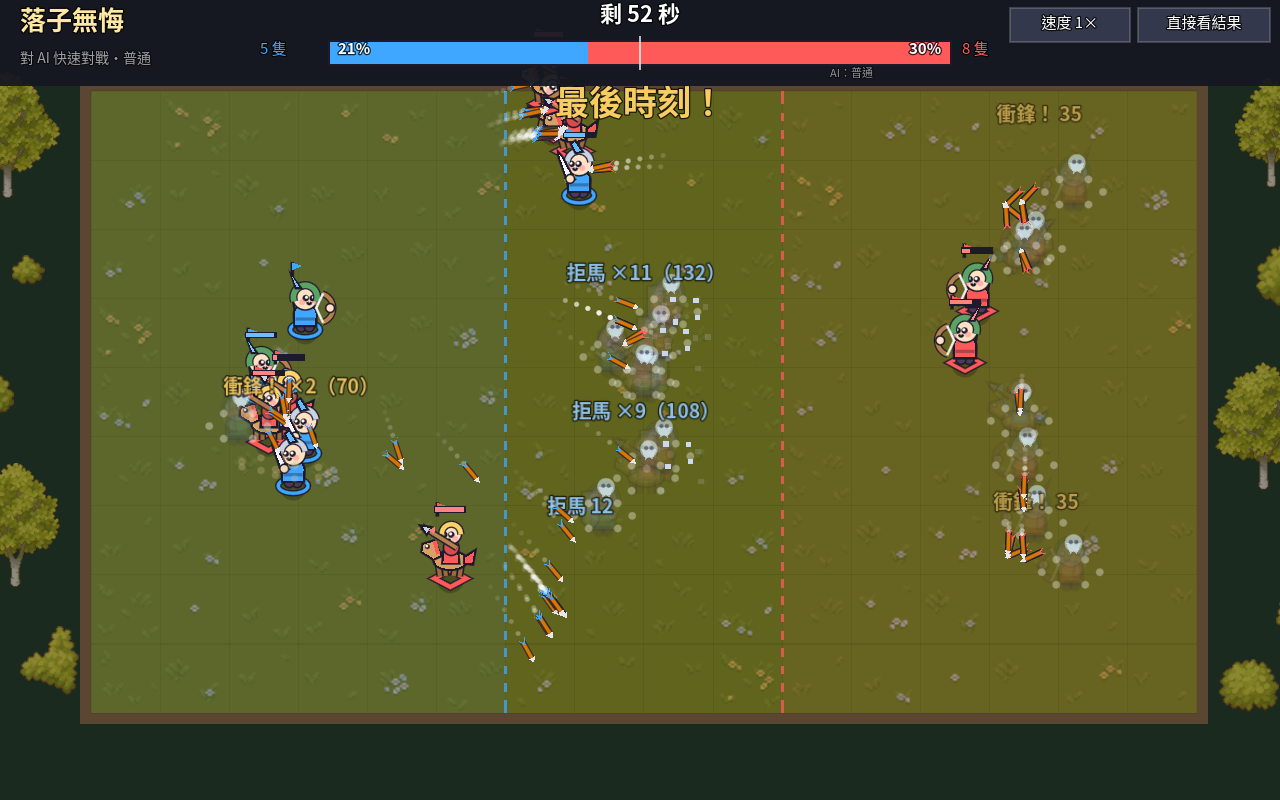
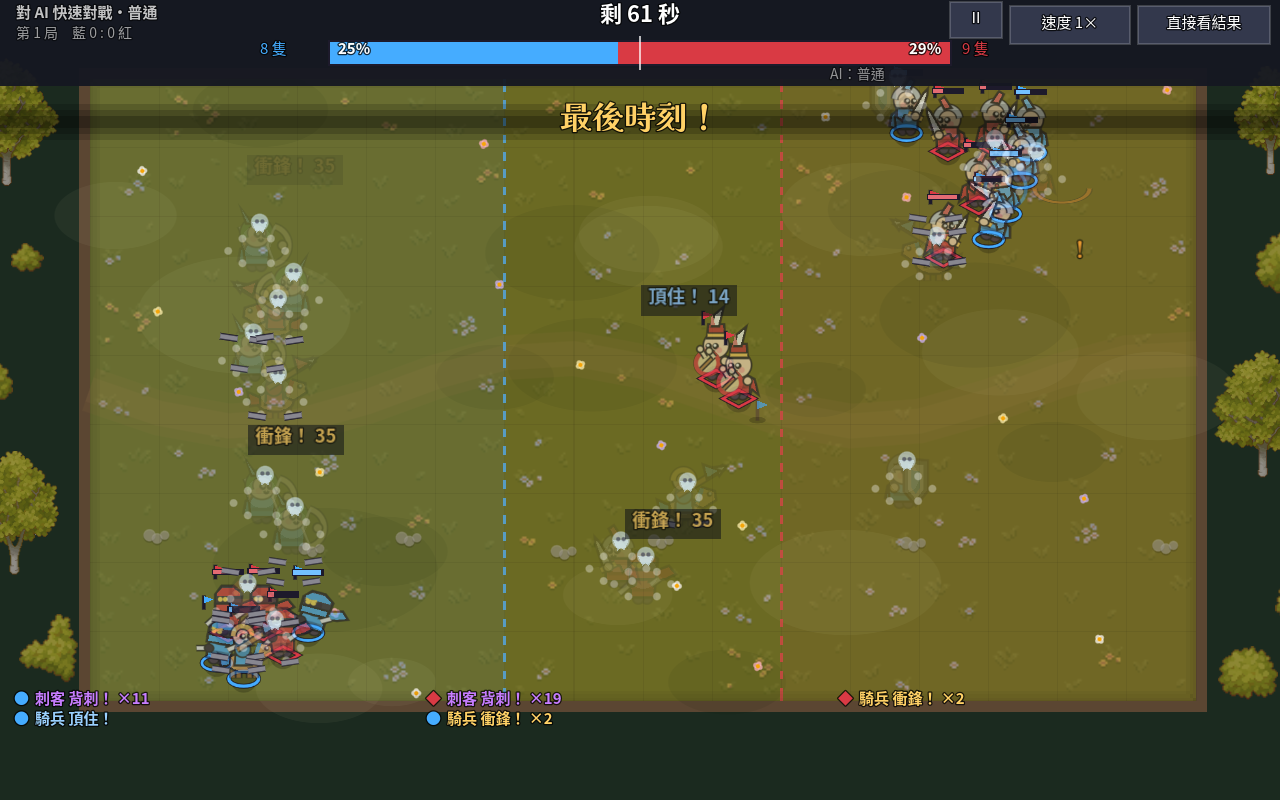
第七輪收尾：殘局標籤、匯出前清快取、截圖與商店圖更新、進度文件
Claude-Session: https://claude.ai/code/session_01XBTCy99wND5CaAY6MHW1Sg

diff --git a/docs/2026-11-01-design-and-plan.md b/docs/2026-11-01-design-and-plan.md
@@ -583,7 +583,7 @@ projects/no-take-backs/        （11/01 定名《落子無悔》後改名）
 - 操作：畫筆（放開才落、Shift 直線、G 對齊、密集切換）、搬移、框選搬群、M 翻轉、復原、手把與觸控；禁區、對峙帶、占地圈、金幣預扣、費用泡泡；覆盤、存檔格、大廳都支援自由陣型。
 - 已知限制：對戰代碼不帶輪序紀錄；殘局／教學／遠征仍是格子；自由模式困難 AI 不用離線反制庫。
 
-## 22. 第七輪：綜合大優化方案（2026-11-04 定稿，未實作）
+## 22. 第七輪：綜合大優化方案（2026-11-04 定稿並實作）
 
 方案：`docs/2026-11-04-grand-optimization-plan-v7.md`（三方兩輪；紀錄 `coordination/plan7-r1、r2`；進度在方案 §20）。
 - 〔使用者〕列出所有能優化的地方（功能、程式碼、美化、排版、文字、檔案、角色……），可查資料，先不實作。
@@ -591,3 +591,5 @@ projects/no-take-backs/        （11/01 定名《落子無悔》後改名）
 - 順序：O0 正確性 → O1 護欄（並行）→ O2 第一印象（新手、標題、擺放減噪、混戰遮擋、特效、3 種角色小樣）→ O3 文字與操作 → O4 有邊界重構 → O5 角色擴展 → O6 出貨；O7 發售後。
 - 不做或延後：上架前全面重構、清 git 歷史、200% 字級、音樂轉 ogg、每日挑戰、新語言、四季主題。
 - §18 六個決定採預設：角色先做 3 種小樣、殘局與教學維持格子、Windows 首發、試玩版 7 種且進度不帶入、首發＝O0～O6、舊代碼重播顯示警告後用新規則重算。
+- 〔使用者〕11/04 要求照整合後順序全做到底、Next Fest 目標 2027 年 6 月。自動化做得到的 O0～O6 都做完（方案 §20、§21）；真人試玩、Steam 帳號與實機、預告片錄影、GitHub repo 仍等你（`docs/release/manual-checklist.md`）。
+- 舊方案移到 `docs/history/`，現況看 `docs/STATE.md`，用語看 `docs/terms.md`。
